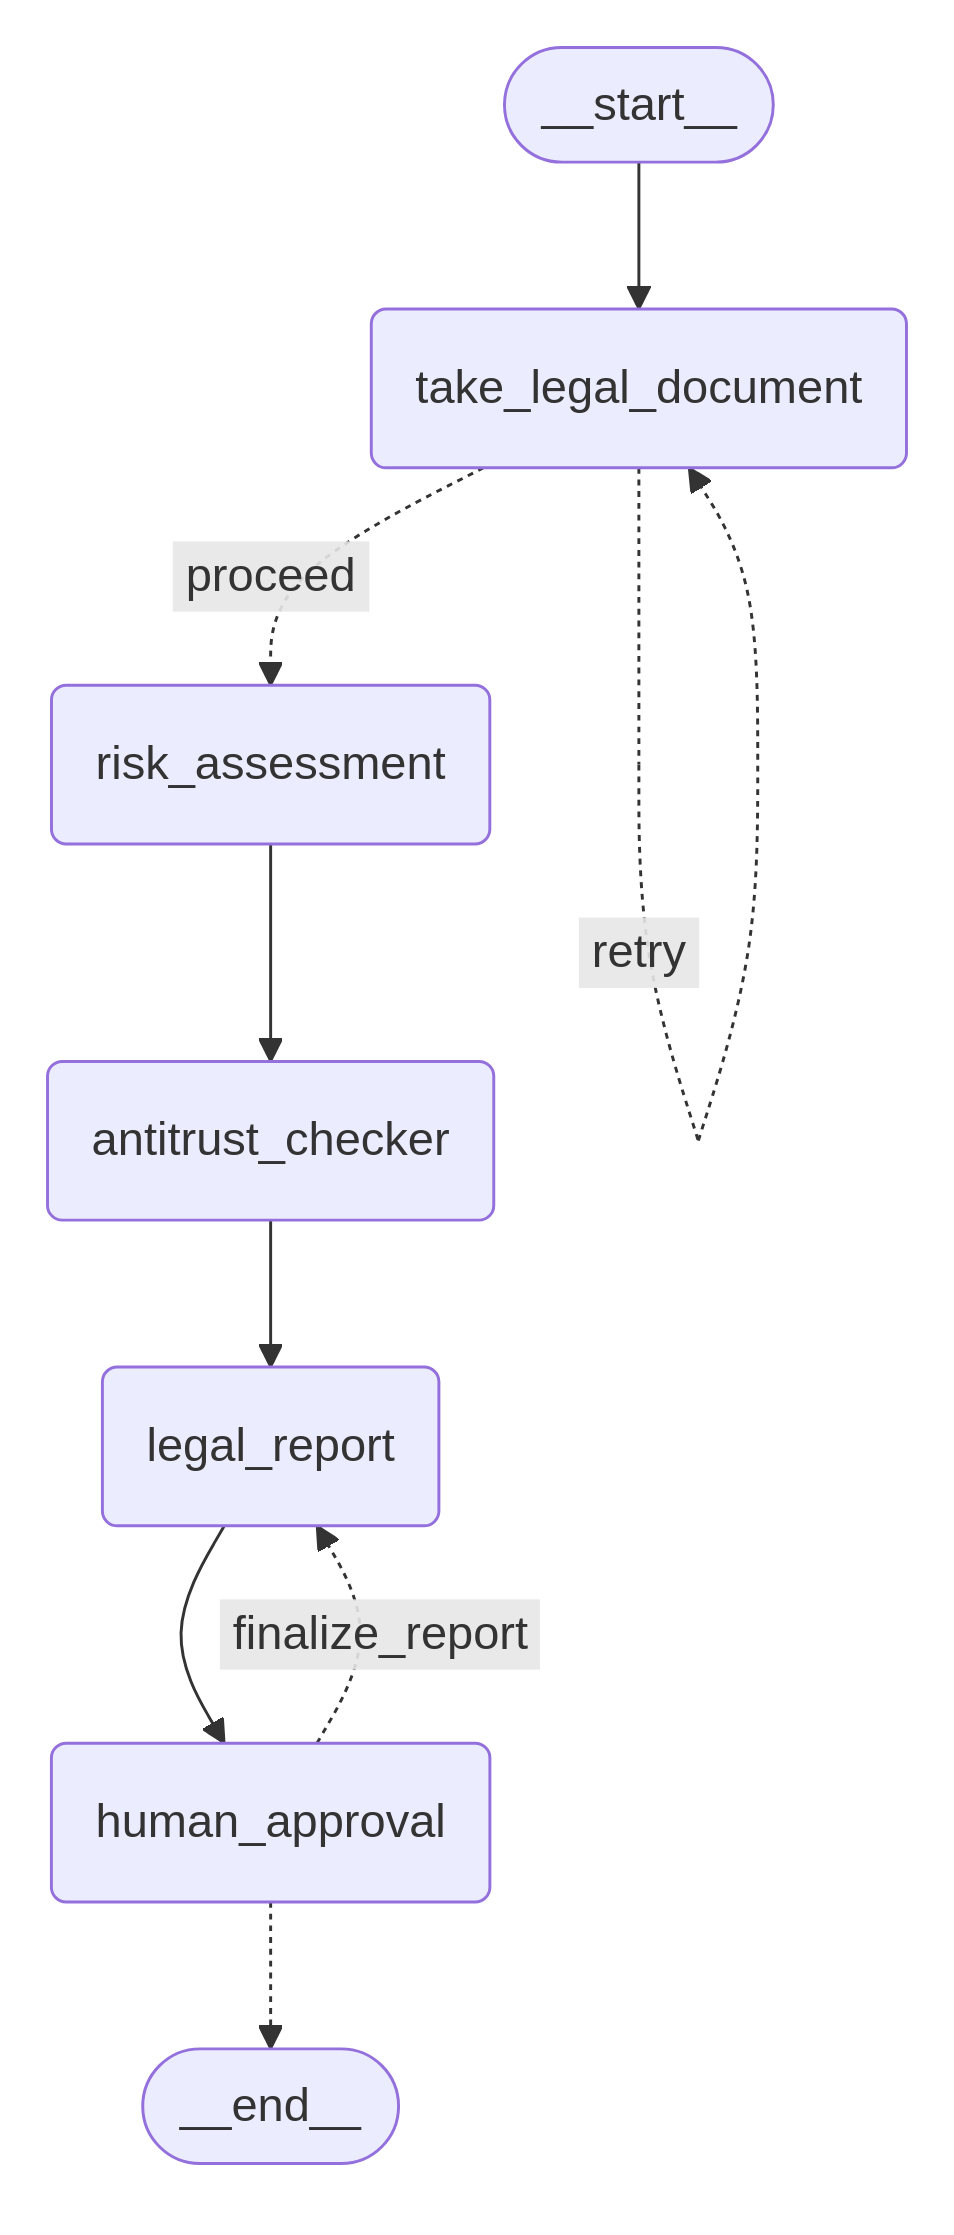
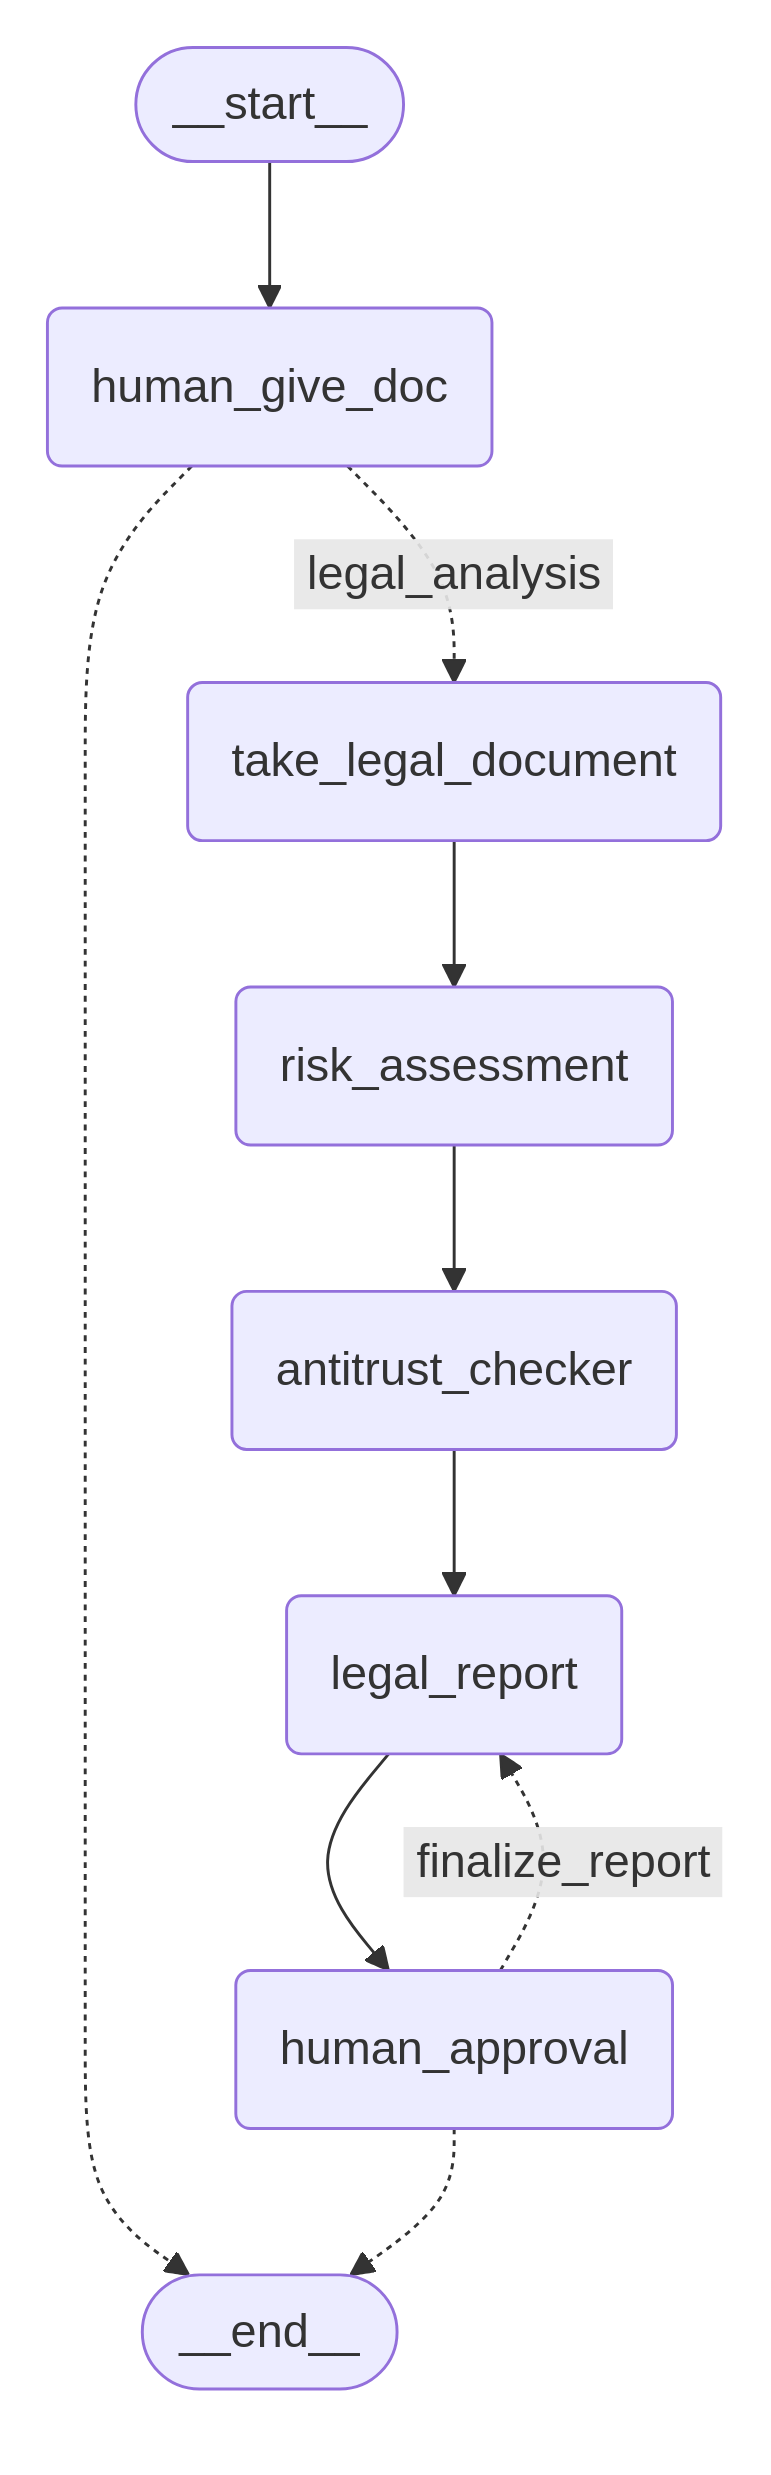
Added the Legal

diff --git a/agents/legal_agent.py b/agents/legal_agent.py
@@ -22,6 +22,7 @@ logger = logging.getLogger(__name__)
 class LegalAgentNodes:
     def __init__(self, state: MnAagentState, company: str):
         self.state = state
+        self.company = company
         if company == 'a':
             self.company_name = state.company_a_name
         else:
@@ -33,36 +34,60 @@ class LegalAgentNodes:
         with open(prompts_path, "r") as file:
             self.prompts = yaml.safe_load(file)["Legal_Prompt"]
         logger.info(f"Loaded prompts from {prompts_path}")
+        self.company_a_legal = None
+        self.company_b_legal = None
 
+    def human_give_doc(self, state: MnAagentState) -> MnAagentState:
+        """
+        Ask human to provide legal documents
+        """
+        state.current_step = "human_give_doc"
+        proceed = input("\nDo you want to proceed? (yes/no): ").lower().strip()
+        
+        if proceed == 'yes':
+            company_a_legal = input(f"Enter the path to the legal document for {state.company_a_name}: ")
+            company_b_legal = input(f"Enter the path to the legal document for {state.company_b_name}: ")
+            self.company_a_legal = company_a_legal
+            self.company_b_legal = company_b_legal
+            state.current_step = "human_approval_confirmed"
+            return state
+        
+        state.current_step = "human_approval_rejected"
+        return state
+    
     def take_legal_document(self, state: MnAagentState) -> MnAagentState:
         while True:
             try:
-                company_a_legal = input(f"Enter the path to the legal document for {state.company_a_name}: ")
-                company_b_legal = input(f"Enter the path to the legal document for {state.company_b_name}: ")
+                # Determine which document to use based on the current company
+                if self.company == 'a':
+                    legal_doc_path = self.company_a_legal
+                    company_name = state.company_a_name
+                else:
+                    legal_doc_path = self.company_b_legal
+                    company_name = state.company_b_name
                 
-                # Validate file paths
-                if not os.path.exists(company_a_legal) or not os.path.exists(company_b_legal):
-                    print("Error: One or both document paths are invalid. Please try again.")
+                # Validate file path
+                if not os.path.exists(legal_doc_path):
+                    print(f"Error: Document path for {company_name} is invalid. Please try again.")
                     continue
                 
-                company_docs = {
-                    f"{state.company_a_name}": f"{company_a_legal}",
-                    f"{state.company_b_name}": f"{company_b_legal}"
-                }
+                # Initialize RAG for the specific company
+                logger.info(f"Initializing RAG for {company_name} with document: {legal_doc_path}")
+                rag_instance = RAG(legal_doc_path)
+                index = rag_instance.create_db(db_name=str(company_name))
+                retriever = index.as_retriever()
                 
-                rag_instances = {}
-                indexes = {}
-                retrievers = {}
+                # Update state with company-specific RAG instances
+                if not hasattr(state, 'indexes'):
+                    state.indexes = {}
+                if not hasattr(state, 'retrievers'):
+                    state.retrievers = {}
+                if not hasattr(state, 'rag_instances'):
+                    state.rag_instances = {}
                 
-                for company, text_path in company_docs.items():
-                    logger.info(f"Initializing RAG for {company} with document: {text_path}")
-                    rag_instances[company] = RAG(text_path)
-                    indexes[company] = rag_instances[company].create_db(db_name=str(company))
-                    retrievers[company] = indexes[company].as_retriever()
-                
-                state.indexes = indexes
-                state.retrievers = retrievers
-                state.rag_instances = rag_instances
+                state.indexes[company_name] = index
+                state.retrievers[company_name] = retriever
+                state.rag_instances[company_name] = rag_instance
                 
                 return state
             
@@ -73,16 +98,20 @@ class LegalAgentNodes:
                     raise SystemExit("Document input cancelled by user.")
 
     def risk_assessment(self, state: MnAagentState) -> MnAagentState:
-        # Existing risk assessment logic remains the same
         state.current_step = "risk_assessment"
-        state.risk_assessment[self.company_name] = "Risk_assessment\n"
-        response = self.state.rag_instances[self.company_name].rag_query(
+        
+        # Ensure risk_check is initialized
+        if not hasattr(state, 'risk_check'):
+            state.risk_check = {}
+        
+        state.risk_check[self.company_name] = "Risk_assessment\n"
+        response = state.rag_instances[self.company_name].rag_query(
             query_text=self.prompts["risk_message"],
-            retriever=self.state.retrievers[self.company_name]
+            retriever=state.retrievers[self.company_name]
         )
-        state.risk_assessment[self.company_name] = state.risk_assessment[self.company_name].join(response["result"])
+        state.risk_check[self.company_name] += response["result"]
         return state
-    
+        
     def antitrust_checker(self, state: MnAagentState) -> MnAagentState:
         # antitrust
         state.current_step = "anti_trust_assessment"
@@ -101,7 +130,7 @@ class LegalAgentNodes:
             ])
 
             rag_instances = RAG(combined_data)
-            
+            self.company_name = self.company_name.replace(" ", "_")
             indexes = rag_instances.create_db(db_name=str(self.company_name))
             retrievers = indexes.as_retriever()
             
@@ -150,51 +179,50 @@ class LegalAgentNodes:
         return END
     
 def create_legal_workflow(mn_agent_state: MnAagentState, company: str):
+    """
+    Enhanced workflow creation with more robust error handling and logging
+    """
     legal_agent = LegalAgentNodes(mn_agent_state, company)
     workflow = StateGraph(MnAagentState)
 
+    # Add nodes
+    workflow.add_node("human_give_doc", legal_agent.human_give_doc)
     workflow.add_node("take_legal_document", legal_agent.take_legal_document)
     workflow.add_node("risk_assessment", legal_agent.risk_assessment)
     workflow.add_node("antitrust_checker", legal_agent.antitrust_checker)
     workflow.add_node("legal_report", legal_agent.legal_report)
     workflow.add_node("human_approval", legal_agent.human_approval)
+
+    # Set entry point and define edges
+    workflow.set_entry_point("human_give_doc")
     
-    # Modify edges to handle document input more robustly
-    workflow.set_entry_point("take_legal_document")
-    
-    # Add a conditional edge after document input to ensure valid documents
+    # Improved conditional edges with more explicit state management
     workflow.add_conditional_edges(
-        "take_legal_document", 
-        lambda state: "proceed" if state.rag_instances and len(state.rag_instances) == 2 else "retry",
-        {
-            "proceed": "risk_assessment",
-            "retry": "take_legal_document"
-        }
+        "human_give_doc", 
+        lambda state: "take_legal_document" if state.current_step == "human_approval_confirmed" else END
     )
     
-    # Rest of the workflow remains the same
+    workflow.add_edge("take_legal_document", "risk_assessment")
     workflow.add_edge("risk_assessment", "antitrust_checker")
     workflow.add_edge("antitrust_checker", "legal_report")
     workflow.add_edge("legal_report", "human_approval")
     
     workflow.add_conditional_edges(
         "human_approval", 
-        lambda state: "finalize_report" if state.current_step == "human_approval_confirmed" else END,
-        {
-            "finalize_report": "legal_report",
-            END: END
-        }
+        lambda state: "legal_report" if state.current_step == "human_approval_confirmed" else END
     )
-    
+
+    # Compile the workflow
     compiled_graph = workflow.compile()
-    
-    # Existing graph visualization code remains the same
+
+    # Optional graph visualization (with error handling)
     try:
         output_dir = "assets"
         os.makedirs(output_dir, exist_ok=True)
-        output_path = os.path.join(output_dir, "legal_agent_graph.png")
+        output_path = os.path.join(output_dir, f"{company}_legal_agent_graph.png")
+        
         graph_image = compiled_graph.get_graph().draw_mermaid_png(
-            curve_style=CurveStyle.LINEAR,
+            curve_style=CurveStyle.CARDINAL,
             node_colors=NodeStyles(first="#ffdfba", last="#baffc9", default="#fad7de"),
             wrap_label_n_words=9,
             output_file_path=None,
@@ -202,20 +230,24 @@ def create_legal_workflow(mn_agent_state: MnAagentState, company: str):
             background_color="white",
             padding=10
         )
+        
         with open(output_path, "wb") as f:
             f.write(graph_image)  
         logger.info(f"Graph visualization saved to {output_path}")
     except Exception as e:
         logger.warning(f"Could not save graph visualization: {e}")
-    
+
     return compiled_graph
 
 if __name__ == "__main__":
-    state = MnAagentState(
-        company_a_name="Company A",
-        company_b_name="Company B"
+    init_state = MnAagentState(
+        company_a_name="RIL",
+        company_b_name="180DC"
     )
-    compiled_graph = create_legal_workflow(state, "a")
-    logger.info(f"Legal workflow graph created: {compiled_graph}")
-    compiled_graph = create_legal_workflow(state, "b")
-    logger.info(f"Legal workflow graph created: {compiled_graph}")
+    compiled_graph_a = create_legal_workflow(init_state, "a")
+    logger.info(f"Legal workflow graph created for company A: {compiled_graph_a}")
+    final_state_a = compiled_graph_a.invoke(init_state)
+    
+    compiled_graph_b = create_legal_workflow(init_state, "b")
+    logger.info(f"Legal workflow graph created for company B: {compiled_graph_b}")
+    final_state_b = compiled_graph_b.invoke(init_state)
